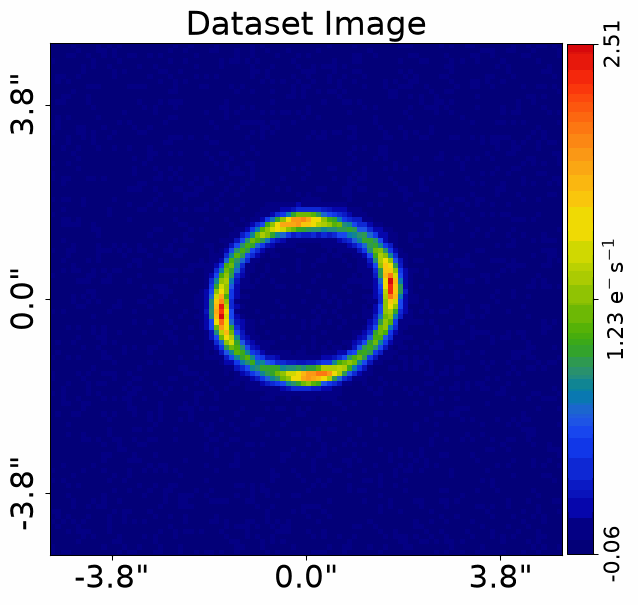
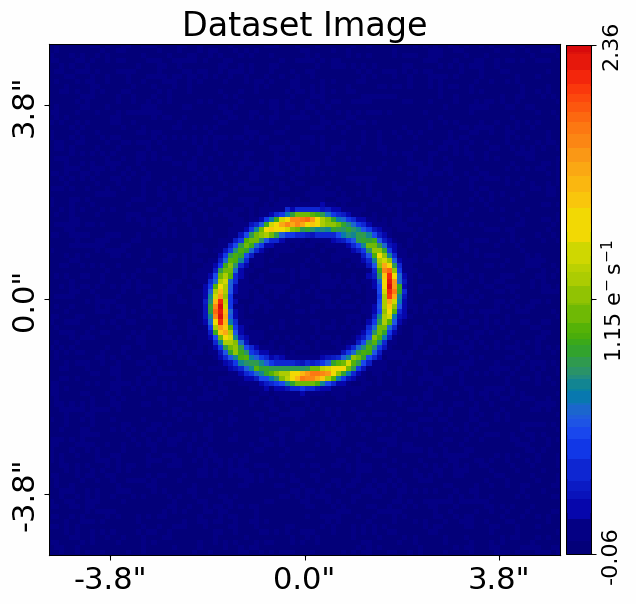
docs: rebuild the tutorial 0 markdown page
Regenerates markdown/chapter_1_introduction/tutorial_0_visualization.md,
the curated page for the tutorial whose __Directories__ block gained the
clone URL and config/ mention in the previous commit.

Kept separate so that prose change reads as a one-block addition. This
commit also carries the catch-up the page had accumulated since it was
last built: the workspace version-check warnings no longer appear (the
render sets PYAUTO_SKIP_WORKSPACE_VERSION_CHECK=1), the convolver warning
moved line number with PyAutoArray, and the four figures are re-rendered.

Claude-Session: https://claude.ai/code/session_014ujQLXo85GNH7tG5eaNJ65

Changed region(s): [[0.0, 0.0, 0.9858, 0.9834], [0.3286, 0.3278, 0.6572, 0.6556], [0.9261, 0.6556, 0.956, 0.8046]]

diff --git a/markdown/chapter_1_introduction/tutorial_0_visualization.md b/markdown/chapter_1_introduction/tutorial_0_visualization.md
@@ -26,31 +26,23 @@ from autolens import jax_wrapper  # Sets JAX environment before other imports
 from autolens import setup_notebook; setup_notebook()
 ```
 
-    .../PyAutoNerves/autonerves/workspace.py:206: UserWarning: Cannot verify the workspace at HowToLens/scripts/chapter_1_introduction is compatible with the installed library version (2026.7.23.1): no `version.minimum_library_version` or `version.workspace_version` key in config/general.yaml and no version.txt at the workspace root.
-    
-    If you cloned the workspace from `main` rather than a release tag, set `version.workspace_version_check: False` in config/general.yaml to silence this warning. The `main` branch updates more frequently than library releases, so version mismatches are expected and not actionable for `main`-branch users.
-    
-    You can also set the environment variable PYAUTO_SKIP_WORKSPACE_VERSION_CHECK=1 to disable temporarily.
-      warnings.warn(_missing_version_warning(root, library_version))
-    .../PyAutoNerves/autonerves/workspace.py:206: UserWarning: Cannot verify the workspace at HowToLens/scripts/chapter_1_introduction is compatible with the installed library version (2026.7.23.1): no `version.minimum_library_version` or `version.workspace_version` key in config/general.yaml and no version.txt at the workspace root.
-    
-    If you cloned the workspace from `main` rather than a release tag, set `version.workspace_version_check: False` in config/general.yaml to silence this warning. The `main` branch updates more frequently than library releases, so version mismatches are expected and not actionable for `main`-branch users.
-    
-    You can also set the environment variable PYAUTO_SKIP_WORKSPACE_VERSION_CHECK=1 to disable temporarily.
-      warnings.warn(_missing_version_warning(root, library_version))
     Working Directory has been set to `HowToLens`
-    .../PyAutoNerves/autonerves/workspace.py:206: UserWarning: Cannot verify the workspace at HowToLens/scripts/chapter_1_introduction is compatible with the installed library version (2026.7.23.1): no `version.minimum_library_version` or `version.workspace_version` key in config/general.yaml and no version.txt at the workspace root.
-    
-    If you cloned the workspace from `main` rather than a release tag, set `version.workspace_version_check: False` in config/general.yaml to silence this warning. The `main` branch updates more frequently than library releases, so version mismatches are expected and not actionable for `main`-branch users.
-    
-    You can also set the environment variable PYAUTO_SKIP_WORKSPACE_VERSION_CHECK=1 to disable temporarily.
-      warnings.warn(_missing_version_warning(root, library_version))
 
 
 __Directories__
 
-**HowToLens** assumes the working directory is the `HowToLens` repository root on your hard-disk, so that relative
-paths to `dataset/` and `output/` resolve correctly.
+**HowToLens** assumes the working directory is the `HowToLens` repository root on your hard-disk. This setup
+allows **PyAutoLens** to:
+
+- Load configuration settings from the config files in the `config/` folder.
+
+- Load the example strong lens datasets in the `dataset/` folder.
+
+- Write the results of model-fits to your hard-disk in the `output/` folder.
+
+If you do not have a clone of **HowToLens** on your computer, you can download it here:
+
+ https://github.com/PyAutoLabs/HowToLens
 
 If your working directory does not match this path on your computer, you can manually set it as follows (the
 example below shows the path I would use on my laptop. The code is commented out so you do not use this path in
@@ -98,9 +90,9 @@ if al.util.dataset.should_simulate(str(dataset_path)):
     )
 ```
 
-    Figure(700x700)
-    .../PyAutoArray/autoarray/operators/convolver.py:1424: UserWarning: No blurring_image provided. Only the direct image will be convolved. This may change the correctness of the PSF convolution.
+    .../PyAutoArray/autoarray/operators/convolver.py:1478: UserWarning: No blurring_image provided. Only the direct image will be convolved. This may change the correctness of the PSF convolution.
       warnings.warn(
+    Figure(700x700)
     Figure(1800x1800)
     Figure(1800x1800)
     Figure(700x700)
